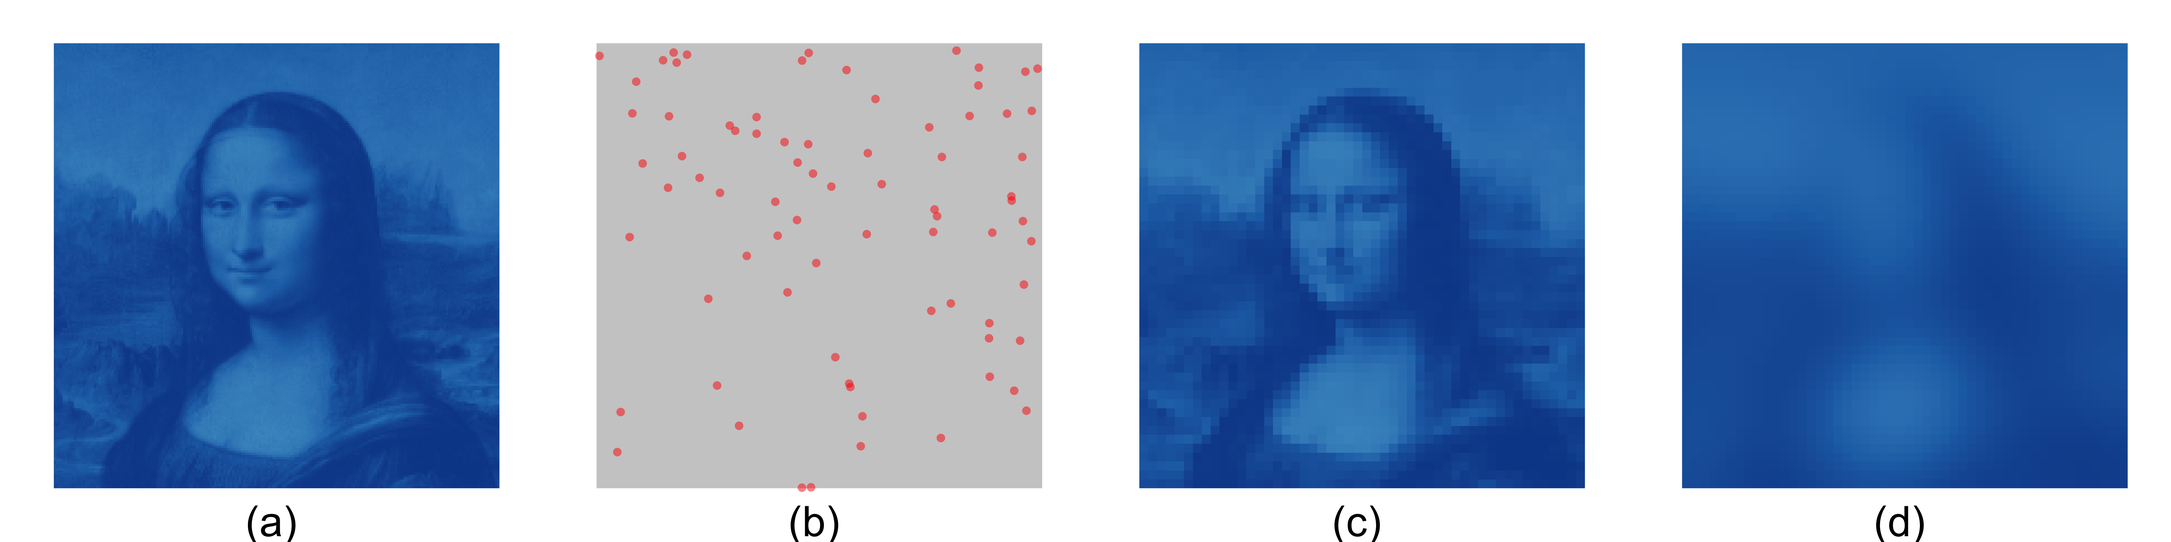
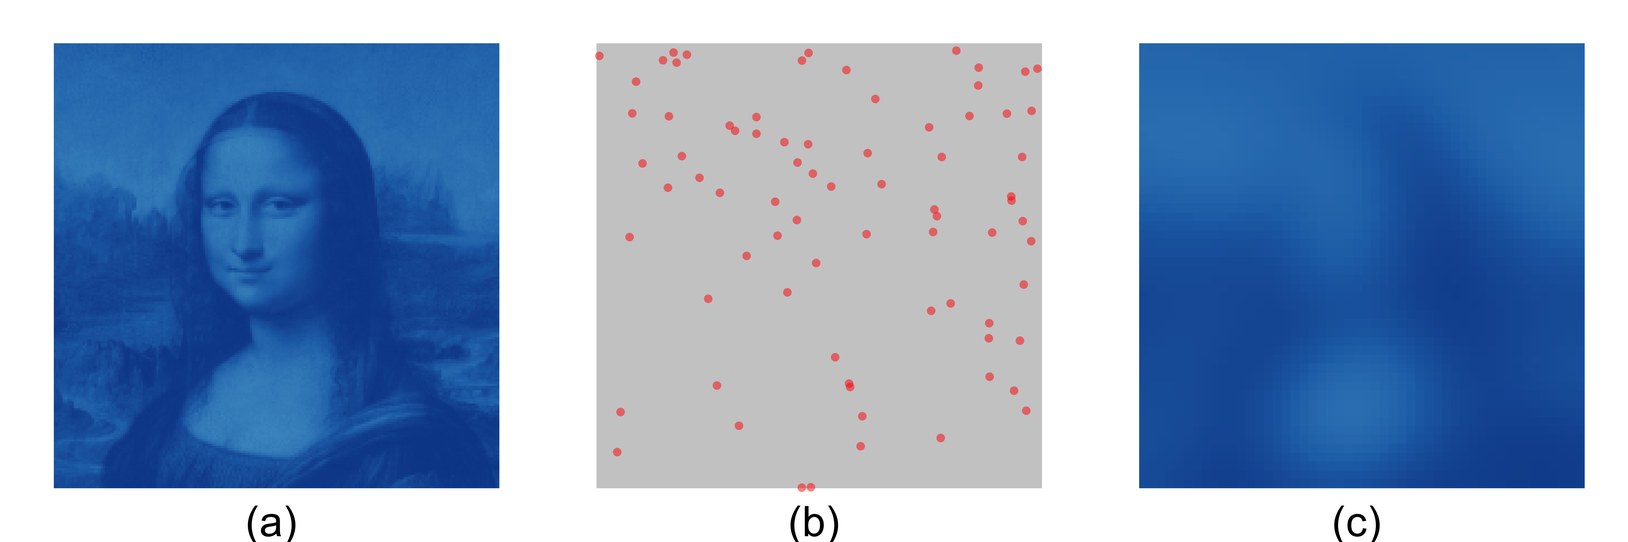
small edits

diff --git a/paper/mona-lisa.tex b/paper/mona-lisa.tex
@@ -37,12 +37,12 @@ $^{4}$Snow Leopard Trust, Seattle, Washington, United States of America \\
 
 \begin{document}
 
-\begin{abstract}\todo{DLB: edited abstract}
+\begin{abstract}
 Spatial capture-recapture (SCR) methods are often used to estimate density surfaces, and these estimates are often misinterpreted. In particular, spatial change in density is confused with spatial change in uncertainty about the locations of animal activity centres (ACs). We illustrate correct and incorrect inference visually by treating an image of the Mona Lisa as an AC intensity surface and simulating SCR surveys from it. Inferences can be drawn about the intensity of the point process generating ACs, and about a single realisation of this process. We show that treating estimates of a realisation of the process as estimates of the intensity of the process results in invalid and misleading ecological inferences, and that estimates of the realisation are highly dependent on where the detectors are placed and how much survey effort is used. Estimates of the expected AC density surface should be obtained by estimating the intensity of a point process model for ACs. Practitioners should state explicitly whether they are estimating the intensity or the realisation, and estimates of the realisation should not be confused with the intensity of the procecss.
 \end{abstract}
 
 \begin{keywords}
-Spatial capture-recapture, density surface, species distribution modelling
+Spatial capture-recapture, density surface, point processes.
 \end{keywords}
 
 \maketitle 
@@ -175,21 +175,18 @@ We illustrate what each of the estimated surface gives the practitioner, and whi
 
 The image's pixel intensities can be arbitrarily scaled to integrate to the expected number of activity centres over the surface. We chose this to be 80, on the basis that this is sufficient to illustrate our main points and also broadly typical of many wildlife surveys. We then generated a single realisation of points from this surface (from a Poisson distribution with mean 80), which resulted in 85 ACs being generated (Figure \ref{mlinputs}(b)).
 
-Figure \ref{mlinputs}(a) is a visual representation of $D(\bm{s})$. Integrating this function intensities over any region in (a) gives the expected number of ACs in that region. For example, Figure \ref{mlinputs}(c) divides the image into 
-$50 \times 50$ grid cells and shows the integral of $D(\bm{s})$ within each of these cells. \todo[inline]{dlb: I think you meant to get rid of the current panel (c) and replace it with the current (d)?}
-
 \begin{figure}[htbp]
 \centering
 \includegraphics[width=1\textwidth]{mona_inputdata.png}
-\caption{Input data for the Mona Lisa simulation study. Panel (a) shows a greyscale version of the Mona Lisa treated as an expected AC density surface. Panel (b) shows a single realisation of 85 ACs generated from the density surface in (a), while (c) shows a spatially-varying covariate that is highly correlated with true density, and which is used to estimate expected AC density surfaces.}
+\caption{Input data for the Mona Lisa simulation study. Panel (a) shows a greyscale version of the Mona Lisa treated as an expected AC density surface. Panel (b) shows a single realisation of 85 ACs generated from the surface in (a), while (c) shows a spatially-varying covariate that is correlated with true density, and which is used to estimate expected AC density surfaces.}
 \label{mlinputs}
 \end{figure}
 
 We simulated capture histories from the population using a half-normal encounter rate function $\lambda(d(\textbf{x})) = \lambda_0\exp[-d(\textbf{x})^2/(2\sigma^2)]$, where $\lambda_0$ is the expected number of encounters at a detector that is at animal's AC and $\sigma$ is a scale parameter determining how quickly the encounter rate decreases with $d(\textbf{x})$, the distance between the detector and an activity centre that is at $\textbf{x}$. Arbitrarily defining the dimensions of the image to be $50\times 50$ units, we set $\sigma=4$ and used two different detector arrays: a $3\times3$ array centred at $x=18$ and $y=24$ (Figure~\ref{mona3x3}), and a $7\times 7$ array covering the entire image (Figure~\ref{mona7x7}). Note that the survey region is closed, in the sense that there are no detectable ACs beyond its borders. Both arrays had a regular spacing of $2\sigma=8$ between detectors. The number of simulated detections at each detector were Poisson random variables with expected values equal to the encounter rate function evaluated at the distances of detectors from ACs. In order to illustrate how realised and expected AC density surfaces change with increasing sample sizes, we simulated capture histories with three different survey effort levels, obtained by varying $\lambda_0$ so that the average number of detections per detected individual was approximately two, four, or eight (corresponding to $\lambda_0=1.8, 5.2$, and $11.1$ for the $3\times 3$ grid, and $\lambda_0=0.7, 2.5$, and $5.5$ for the $7\times 7$ grid). This generated between 47 and 318 detections of between 23 and 39 individuals for the $3\times 3$ grid (Figure~\ref{mona3x3}), and between 94 and 702 detections of between 54 and 85 individuals for the $7\times 7$ grid (Figure~\ref{mona7x7}).
 
-Parameter estimation by maximum-likelihood SCR methods requires numerical integration of the likelihood, which is facilitated by defining a fine mesh of points at which the likelihood can be evaluated. This mesh, sometimes called the habitat mask, has the effect of discretizing continuous space into grid cells, with the mask points at the centres of the cells. We used a $50\times 50$ habitat mask i.e.\, a spacing of $1=\sigma/4$ between mask points, the same spatial resolution as used in Figure \ref{mlinputs}(c). To estimate the realised AC surface, we assumed a model with constant density. To estimate an expected AC density surface, we generated a covariate by blurring the true density surface (Figure~\ref{mlinputs}(d))\todo[inline]{dlb: I think this must be (c), after revising the plot as per previous comment?}. Pixel intensities were rescaled after blurring so that the number of expected activity centres remained the same as in the original surface (i.e., 80). Because it is based on true density, the covariate is very informative about the true densities, although the strength of the association is diluted by the blurring. We estimated an expected AC density surface assuming a model in which density is a function of covariate values. Note that, because density is parameterised with a log link (see Section \ref{secrmethods}) but the blurred surface is obtained directly from the true density surface (so that $D(\mathbf{s})\approx x_k(\mathbf{s})$, with the degree of blurring determining the accuracy of approximation), covariate values were log-transformed to ensure the model was correctly specified.\todo[inline]{dlb: this seems a bit more convoluted than necessary - why not just plot the logged covariate and leave it at that?}
+Parameter estimation by maximum-likelihood SCR methods requires numerical integration of the likelihood, which is facilitated by defining a fine mesh of points at which the likelihood can be evaluated. This mesh, sometimes called the habitat mask, has the effect of discretizing continuous space into grid cells, with the mask points at the centres of the cells. We used a $50\times 50$ habitat mask i.e.\, a spacing of $1=\sigma/4$ between mask points. To estimate the realised AC surface, we assumed a model with constant density. To estimate an expected AC density surface, we generated a covariate by blurring the true density surface at the resolution of the habitat mask (Figure~\ref{mlinputs}(c)). Pixel intensities were rescaled after blurring so that the number of expected activity centres remained the same as in the original surface (i.e., 80). Because it is based on true density, the covariate is very informative about the true densities, although the strength of the association is diluted by the blurring. We estimated an expected AC density surface assuming a model in which density is a function of covariate values. Note that, because density is parameterised with a log link (see Section \ref{secrmethods}) but the blurred surface is obtained directly from the true density surface (so that $D(\mathbf{s})\approx x_k(\mathbf{s})$, with the degree of blurring determining the accuracy of approximation), covariate values were log-transformed to ensure the model was correctly specified.%\todo[inline]{dlb: this seems a bit more convoluted than necessary - why not just plot the logged covariate and leave it at that?}
 
-Most of the examples of unclear or incorrect interepreations of density surfaces that we listed in the introduction are made using Bayesian methods. To show that correct interpretations do not depend on the inferential method used, models were estimated using both maximum likelihood inference ,using the \texttt{secr} (v4.5.4) package\footnote{Realised AC density surfaces can be produced in \texttt{secr} with the \texttt{fx.total} function. Documentation warns the user that ``the surface represents what is known from the data about a specific realisation of the spatial point process for home range centres: varying the intensity of sampling will change its shape. It is not an unbiased estimate of a biologically meaningful density surface.''} \citep{secr:21} and Bayesian inference, using the \texttt{NIMBLE} package \citep{deValpine:17, Turek:21} in R version 4.1.2. We report the maximum likelihood estimates here; the Bayesian estimates are not materially different and are reported in Supplementary Material A.
+Most of the examples of unclear or incorrect interepreations of density surfaces that we listed in the introduction are made using Bayesian methods. To show that correct interpretations do not depend on the inferential method used, models were estimated using both maximum likelihood inference ,using the \texttt{secr} (v4.5.4) package\footnote{Realised AC density surfaces can be produced in \texttt{secr} with function \texttt{fx.total}. Documentation warns the user that ``the surface represents what is known from the data about a specific realisation of the spatial point process for home range centres: varying the intensity of sampling will change its shape. It is not an unbiased estimate of a biologically meaningful density surface.''} \citep{secr:21} and Bayesian inference, using the \texttt{NIMBLE} package \citep{deValpine:17, Turek:21} in R version 4.1.2. We report the maximum likelihood estimates here; the Bayesian estimates are not materially different and are reported in Supplementary Material A.
 
 \subsection{Results}
 The most striking features of the realised AC density surface estimates shown in Figure~\ref{mona3x3} (top row) are that (a) they do not really recover the Mona Lisa in any recognisable way, (b) they predict flat density far from the array, (c) they become more ``spiked'' (density concentrated more closely around estimated AC locations) inside the array as sample size increases, and (d) the distance from the array at which the surface becomes flat increases as sample size increases. We discuss each of these features below
@@ -198,14 +195,14 @@ Regarding (a), realised AC surfaces are not designed to recover the expected den
 
 Introducing covariates into the density models allowed us to recover features of the Mona Lisa across the entire image, not just near where detectors were located (Figure~\ref{mona3x3}, bottom row). Recovery may not be this good in reality -- we simulated our covariate to be strongly related to true density -- and extrapolation so far beyond the area where data was collected is in any case ill-advised. Notwithstanding this, it is true in general that because the expected AC surface depends on the relationship between the covariate and density, the model uses estimates of this relationship obtained where it has lots of information (within the array) to infer density beyond the array. The inferred surface is also relatively insensitive to sample size.
 
-The realised AC density surface estimates in Figure~\ref{mona3x3} are misleading if interpreted as AC density plots, not because uncertainty about AC locations depends on sampling intensity, but because there are systematic spatial differences in this uncertainty (uncertainty is greater on the periphery of the array than inside it), and thus spatial differences in AC density are confounded with spatial differences in uncertainty. Spatial differences in uncertainty are diminished if the survey region is closed, with boundary close to traps, and is surveyed with even intensity (Figure~\ref{mona7x7}, top row). Under these conditions, realised AC density surface estimates can provide a fair indication of the spatial distribution of ACs, although uncertainty will still be greater at the boundary of the survey region (because fewer detectors are within reach of an AC on the boundary than an AC near the centre of the array). 
+The realised AC density surface estimates in Figure~\ref{mona3x3} are misleading if interpreted as AC density plots, not because uncertainty about AC locations depends on sampling intensity, but because there are systematic spatial differences in this uncertainty (uncertainty is greater on the periphery of the array than inside it), and thus spatial differences in AC density are confounded with spatial differences in uncertainty. Spatial differences in uncertainty are minimized if the survey region is closed, with boundary close to traps, and surveyed with even intensity (Figure~\ref{mona7x7}, top row). Realised AC density surface estimates then provide a fair indication of AC distribution, although uncertainty will still be greater near the boundary of the survey region (because fewer detectors are within reach of an AC near the boundary than an AC that is well within the array). 
 
 Where the survey region is not closed but has been evenly surveyed with a large, regular array, a similar effect can be achieved by restricting inference to the interior of the array, except that animals with ACs in the periphery outside the array will still make a contribution to the restricted surface. Note that, in contrast to the realised surfaces, the expected AC density estimates in Figure~\ref{mona7x7} (bottom row) are very similar to those in Figure~\ref{mona3x3}. 
 
 \begin{figure}[htbp]
 \centering
 \includegraphics[width=1\textwidth]{mona_3x3.png}
-\caption{Plots (a), (b), (c) show estimated realised AC surfaces estimated using the 3$\times$3 array indicated by grey crosses under three levels of survey effort. True AC locations are shown as orange dots. Plots (d), (e), (f) show expected activity centre surfaces estimated using a model in which density is a function of a simulated spatially-varying covariate (see Figure \ref{mlInputs}).}
+\caption{Plots (a), (b), (c) show estimated realised AC surfaces estimated using the 3$\times$3 array indicated by grey crosses under three levels of survey effort. True AC locations are shown as orange dots. Plots (d), (e), (f) show expected activity centre surfaces estimated using a model in which density is a function of a simulated spatially-varying covariate (see Figure \ref{mlinputs}).}
 \label{mona3x3}
 \end{figure}
 
@@ -213,17 +210,17 @@ Where the survey region is not closed but has been evenly surveyed with a large,
 \begin{figure}[htbp]
 \centering
 \includegraphics[width=1\textwidth]{mona_7x7.png}
-\caption{Plots (a), (b), (c) show estimated realised AC surfaces estimated using the 7$\times$7 array indicated by grey crosses under three levels of survey effort. True AC locations are shown as orange dots. Plots (d), (e), (f) show expected activity centre surfaces estimated using a model in which density is a function of a simulated spatially-varying covariate (see Figure \ref{mlInputs}).}
+\caption{Plots (a), (b), (c) show estimated realised AC surfaces estimated using the 7$\times$7 array indicated by grey crosses under three levels of survey effort. True AC locations are shown as orange dots. Plots (d), (e), (f) show expected activity centre surfaces estimated using a model in which density is a function of a simulated spatially-varying covariate (see Figure \ref{mlinputs}).}
 \label{mona7x7}
 \end{figure}
 
 \section{Discussion and Conclusions} \label{discussion}
-\todo[inline]{dlb: Seemed to me that we could usefully combine discussion and conclusions, so I have done that.}
+%\todo[inline]{dlb: Seemed to me that we could usefully combine discussion and conclusions, so I have done that.}
 %\todo[inline]{ Key points (maybe one per para?): (1) RACD misleading because spatial diffs in AC density are confounded with spatial diffs in uncertainty [[Do we need to disentangle here (a) that increases in survey effort make the surface more peaked (which is a problem if interpreting purely as AC density but not if you keep uncertainty in mind), (b) that there are systematic spatial differences in uncertainty (uncertainty increases as one moves away from the array), which is a bigger problem because you can't see how uncertainty is changing (because of the confounding). (2) Expected (long run good areas) vs Realised (where animals are in this population). (3) RACD is ok if even sampling across a closed region (even then not perfect, cos uncertainty still higher near the borders, but probably practically ok). (4) Covariate models provide EACDs, but obv depend on covariate. (5) Difficulty of showing uncertainty associated with densities (Ben/Rishika?). 
  
 %Maybe start with ``Realised AC densities produced from an SCR model are in many instances misleading, because spatial differences in the density of AC locations are confounded with spatial differences in the uncertainty about these locations.'' }
 
-Realised AC density surfaces produced from an SCR model cannot be interpreted as density maps in any meaningful biological or ecological way, because they depend heavily on factors related to the detection process that have nothing to do with the underlying AC density. 
+Realised AC density surfaces produced from an SCR model cannot be interpreted as density maps in a meaningful biological or ecological way, because they depend heavily on factors related to the detection process that have nothing to do with the underlying AC density. 
 
 The surfaces will always show less spatial variability far from the detector array than close to, or within it, whether the underlying density is less variable there or not. This point is clearly stated in \cite{Royle+al:13a}, who say (p165-166) ``As we move away from `where the data live' (away from the detector array) we see that the density approaches the mean density. This is a property of the estimator as long as the detection function decreases sufficiently rapidly as a function of distance. ... predictions tend toward the global mean as the influence of data diminishes''. In addition, a survey that uses greater survey effort will produce a realised AC density surface that has more spatial variability than a survey of exactly the same animals using lower effort. And the spatial variability moves with the array: move the array and the regions of high and low realised AC density move with it, even though the true ACs do not move.
 
@@ -231,11 +228,12 @@ A useful metaphor here might be of SCR as a torch shining a light onto the true 
 
 %More importantly for people actually conducting SCR surveys is that the realised density estimates obtained in the periphery of the detector array, and even inside it, {\it also} depend on where detectors are located. 
 
-When considering realised ACs, SCR models answer the question ``where is an animal with {\it this} spatial capture history likely to have its activity centre?'' The answer is always contingent on where detectors are located - because the capture history depends on where the detectors are located. Uncertainty about the location of an animal's AC is determined by the number of times it is detected and the number of detectors it is detected at (and to some extent by the spatial configuration of those detectors). The quantities tend to be larger, and so uncertainty tends to be smaller, for animals whose ACs are within reach of more detectors. For a regularly spaced grid of detectors, this means that uncertainty is greater for animals whose ACs are near the border of the array than for those whose ACs are well inside the array. For irregularly spaced arrays (i.e.\ for most surveys) spatial differences in locational uncertainty exist even within the array, because detectors will be more densely clustered in some regions than others. This is the case regardless of whether one works in a Bayesian or frequentist framework. The same is true of the realised AC density surface, which simply sums estimated AC densities across animals. 
+When considering realised ACs, SCR models answer the question ``where is an animal with {\it this} spatial capture history likely to have its activity centre?'' The answer is always contingent on where detectors are located - because the capture history depends on where the detectors are located. This is the case regardless of whether one works in a Bayesian or frequentist framework. The same is true of the realised AC density surface, which simply sums estimated AC densities across animals. 
 
-Extending the torch metaphor, a torch beam's does not abruptly change from bright to dark. At the periphery of the beam (near the extent of the array) there is a transition zone where objects become increasingly difficult to see. Increasing the brightness of the torch makes everything within the beam easier to see, but also pushes back the periphery of the beam. And even in the interior of the beam, a bug on the glass (uneven sampling within the array) casts a shadow. Drawing a line at which a torch can no longer be trusted is to some extent arbitrary. 
+Uncertainty about the location of an animal's AC is affected by the number of times it is detected and the number of detectors it is detected at (and to some extent by the spatial configuration of those detectors). These quantities tend to be larger, and so uncertainty less, for animals whose ACs is within reach of more detectors. For a regularly spaced grid of detectors, this means that uncertainty is less for animals whose ACs are well inside the array than it is for animals whose ACs are near the border of the array. For irregularly spaced arrays (i.e.\ most surveys) systematic spatial differences in locational uncertainty exist within the array because sampling intensity is not uniform throughout the survey region -- detectors are by definition more densely clustered in some subregions than others. Concerns about spatial differences in uncertainty are diminished when the surveyed area is large and surveyed with even intensity \citep[e.g.][]{Bischof2020}, and under these conditions the realised AC density surface provides a fair indication of the spatial distribution of ACs, particuarly within the array. But these conditions are not likely to hold in most SCR studies with typical resources.
 
-Concerns about spatial differences in locational certainty are diminished when the surveyed area is sufficiently large and surveyed with even intensity \citep[e.g.][]{Bischof2020}. Then the realised AC densities provide a fair indication of spatial distribution, particuarly within the array. This will not likely be possible in most SCR studies with typical resources.
+To extend the metaphor, a torch beam's does not abruptly change from bright to dark. At the periphery of the beam (near the extent of the array) objects become increasingly difficult to see. Increasing the brightness of the torch makes everything within the beam easier to see, but also pushes back the periphery of the beam. And even in the interior of the beam, a bug on the glass (uneven sampling within the array) casts a shadow. Drawing a line at which the torch can no longer be trusted is to some extent arbitrary. 
+
 
 % UNCERTAINTY STUFF: One way to see that flatness away from detectors reflects uncertainty rather than homogenous density is to plot lower and upper percentiles at each pixel, rather than just the posterior mean -- the differences between these percentiles would be large away from detectors and small close to detectors. It seems that this is rarely done, or at least reported in the literature; a practice that would be worth changing. 
 
@@ -248,19 +246,19 @@ Concerns about spatial differences in locational certainty are diminished when t
 
 %When estimating the location of a given activity centre, the bias caused by detector locations is lowest if the activity centre occurs near the centre of a dense array of detectors, and is highest if detectors are all on one side of the activity centre or if detections are only made at a single detector. Thus bias can be reduced by using a design that makes it likely that all activity centres in the study region are surrounded by a network of detectors. This will be unachievable for most wildlife surveys, as it requires a large number of detectors covering an area beyond the study region, and ideally placed at random {\it [[[note: I say `beyond the region' so that activity centres at the borders are also in the centre of some array, but not sure this is correct -- ????]]]} . In summary, it is incorrect to interpret the realised activity centre density surface as if it indicated where animals currently have their activity centres. \todo[inline]{DLB: The paragraph above seems both redundant (we have already made the point about misinterpretation of activity density surfaces quite well I think), and unclear in that I don't know what ``bias'' is being referred to in it. I suggest we remove the paragraph.}
 
-There is a way of using SCR so that it can be interpreted in a biologically or ecologicaly meaningful way, and this is by modelling the intensity of the underlying process as a function of environmental covariates. Covariates allow one to see beyond the spatial extent of the array (see Figure~\ref{mona_peaky_avgd}), provided that the relationship between covariate and response is a good one, and that detectors cover a sufficient range of covariate values to estimate that relationship well. The resulting surfaces show the (estimated) intensity of the underlying process assumed to generate activity centres. These expected densities will be highest where environmental covariates are most favourable. Using covariate models, and associated model-based inference, is not without issues -- there is a danger of extrapolating the density surface beyond the range of covariates around the detectors, particularly when using a log link function, and the relationship with density and covariate is assumed to be the same everywhere as it is around the detectors. Notwithstanding this, expected AC density surfaces are no longer strongly tied to one particular realisation of the Poisson process or to where detectors are placed.
+There is a way of using SCR so that it can be interpreted in a biologically or ecologicaly meaningful way, and this is by modelling the intensity of the underlying process as a function of environmental covariates. Covariates allow one to see beyond the spatial extent of the array (see bottom rows of Figures~\ref{mona3x3} and \ref{mona7x7}), provided that the relationship between covariate and response is a good one, and that detectors cover a sufficient range of covariate values to estimate that relationship well. The resulting surfaces show the (estimated) intensity of the underlying process assumed to generate activity centres. These expected densities will be highest where environmental covariates are most favourable. Using covariate models, and associated model-based inference, is not without issues -- there is a danger of extrapolating the density surface beyond the range of covariates around the detectors, particularly with a log link function, and the relationship with density and covariate is assumed to be the same everywhere as it is around the detectors. Notwithstanding this, expected AC density surfaces are no longer strongly tied to one particular realisation of the Poisson process or to where detectors are placed.
 
 %Rather, they answer the questions ``Where are the high- and low-density regions?'' and ``What spatial variables are good predictors of the high- and low-density regions?'' 
 %in a way that is consistent with how this question is answered by species distribution models. %They predict where we would expect to see activity centres, if we were able to observe multiple independent populations distribute themselves across the study region. 
 
 %Using covariate models, and associated model-based inference, is not without issues -- there is a danger of extrapolating the density surface beyond the range of covariates around the detectors, particularly when using a log link function, and the relationship with density and covariate is assumed to be the same everywhere as it is around the detectors. %The extent to which the expected activity centre surface predicts where animals have their activity centres {\it in this realization of the process} depends on the strength of the covariate relationship and on the number of activity centres, each of which is assumed to be an independent draw from the underlying process. %In the Nagarahole survey, for example, there is a relatively weak northing covariate and a relatively small number of activity centres, and the estimated expected activity centre density surface provides very little information about the location of current activity centres. 
 
-\todo[inline]{dlb: I have commented out all mention of usage surfaces. This is what we agreed, isn't it?}
+%\todo[inline]{dlb: I have commented out all mention of usage surfaces. This is what we agreed, isn't it?}
 %The concept of an activity centre is central to SCR models, but for many applications of SCR it may be more appropriate to consider a distribution of space use, taking into account all locations where an animal may have been present, rather than a distribution over activity centre locations only. The detection function or encounter function estimated as part of an SCR model provides information about how far from its activity centre an animal may move. This can be easily integrated with the estimated realised AC density to give an estimated realised {\it usage} density surface. The resulting surface effectively smooths the realised AC density surface, with the amount of smoothing determined by the distances that animals move. As it is based on realised AC density, the usage density surface also depends on where detectors are located and on survey effort. However, it depends less heavily on these factors than the realised AC surface because the detection function or encounter function does not depend on them. In particular, the realised usage density surface quickly stops becoming increasingly ``peaked'' as survey effort increases.
 
 %We constructed individual usage distributions using the encounter function from our SCR model, but this may not always be appropriate. For example, if individuals cannot fully explore their home range within the duration of the survey, then we would not expect the spatial range of the detection function to match the extent of an animal's usage distribution. Even for longer surveys, it may not be sensible to relate the range of the encounter function to the size of the region used by an individual even for longer surveys, so care should be taken when this practice is used. For example, \cite{Tenan+al:17} found that the spatial scale of the encounter rate function for brown bears (\emph{Ursus arctos}) estimated using SCR was not consistent with spatial usage parameters estimated from other data sources, although \cite{Popescu+al:14} did not detect any such inconsistency for a population of fishers (\emph{Pekania pennanti}). If alternative data sources are available (e.g., telemetry, or opportunistic data such as hair or scat samples) they may be incoprorated for improved estimation of individual usage distributions \citep{Tenan+al:17}. Our method also assumes that home ranges are circular, however their shapes are likely to be modified by variables relating to population and landscape connectivity \citep[see][for a review]{Drake+al:ip}.
 
-Ultimately, the appropriate density surface to use depends on the aims of the researcher. We have argued that the estimated realised activity centre density surface should not be used, because of the strong dependence on detector location and survey effort. But if the goal is to identify the activity centres of {\it some} animals currently in the study region (and it does not matter which ones) then it may well be an efficient way of locating these, particularly in the interior of large, evenly sampled survey regions. If the goal is to estimate where animals (not just the ones in the current realisation) are likely to have activity centres, then the expected AC surface, with density a function of covariates, should be used.
+Ultimately, the appropriate density surface to use depends on the aims of the researcher. We have argued that the estimated realised AC density surface should not be used, because of the strong dependence on detector location and survey effort. But if the goal is to identify the ACs of {\it some} animals currently in the study region (and it does not matter which ones) then it may well be an efficient way of locating these, especially in the interior of large, evenly sampled survey regions. If the goal is to estimate where animals (not just the ones in the current realisation) are likely to have activity centres, then the expected AC surface, with density a function of covariates, should be used.
 
 %\section{Conclusions}
 %This paper demonstrates that the summed posterior distribution of estimated ranges across animals obtained from SCR -- what we call the realised activity centre density surface -- cannot be used as a species distribution model. We illustrated this point in a number of ways, first with a binomial point process, then by using the Mona Lisa to simulate a Poisson point process, and finally using data from a real-world camera detector survey. All these examples returned the consistent message that realised activity centre density surfaces differ depending on detector location. This dependency is most obvious at large spatial scales, where moving a detector array is like ``shining a torch'' on a particular part of the study area, but is also present within the region in and around the detector array itself. 
